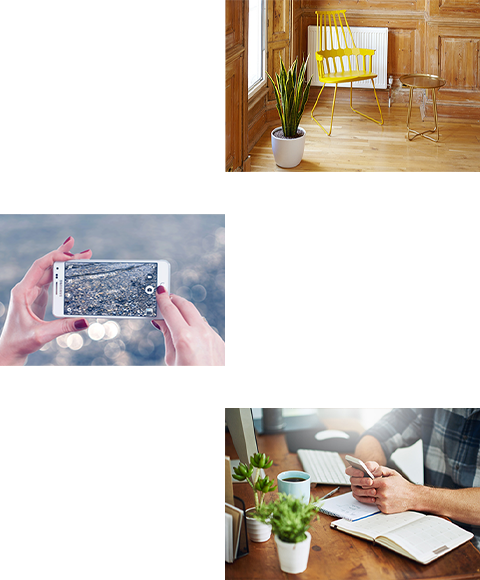
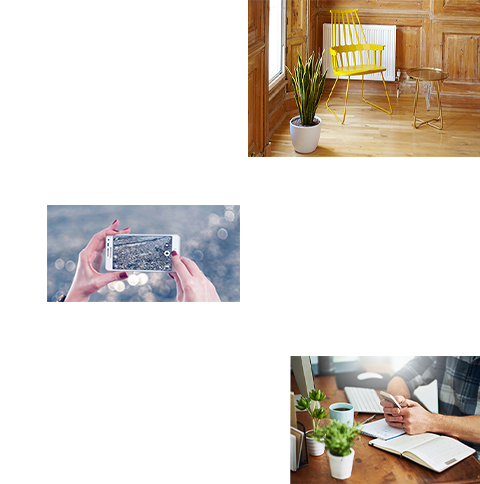
Clents add

diff --git a/index.html b/index.html
@@ -92,8 +92,8 @@
     <div class="grid-blocks bdg-danger py-100 pb-0">
         <div class="container px-5 px-md-3">
             <div class="heading d-inline-block">
-                <h2> <span class="bg-black text-white">Work <i class="fa fa-angle-double-right"></i></span><span
-                        class="d-block">What We Do <i class="fa fa-star"></i></span></h2>
+                <h2> <span class="bg-black text-white pr-4">Work >></span><span
+                        class="d-block">What We Do *</span></h2>
             </div>
 
             <div class="masonry-grid row ">
@@ -211,9 +211,9 @@
     <div class="divider-section">
         <div class="container px-5 px-md-3">
             <div class="row">
-                <div class="col-lg-11 mx-auto">
+                <div class="col-lg-10 mx-auto">
                     <div class="row py-100">
-                        <div class="col-md-3 col-md-offset-1">
+                        <div class="col-md-2 mt-5">
                             <div class="video mb-4">
                                 <div class="grid-img">
                                     <a href=""><img class="img-fluid w-100" src="assets/img/img5.jpg"
@@ -240,12 +240,13 @@
                             </div>
                             <!-- End Blog Grid Modern Blocks -->
                         </div>
-                        <div class="col-md-5 py-5 py-md-0">
+                        <div class="col-md-6 py-5 py-md-0">
+                            
                             <div class="heading">
                                 <h2> <span class="bg-black text-white">Development</span><span class="d-block">&
                                         Production</span></h2>
                             </div>
-                            <div class="g-mt-100 text-right ff-ssp">
+                            <div class="g-mt-100 text-right mr-5 ff-ssp">
                                 <p>Lorem ipsum dolor sit amet consectetur adipisicing eeritatis aliquam nam fugit quos
                                     sunt provident. Dolorum, possimus!</p>
                                 <p>Rsum dolor sit amet consectetur adipisicing elit. Provident, necessitatibus!</p>
@@ -253,6 +254,7 @@
                             </div>
                         </div>
                         <div class="col-md-4">
+                            <div class="line-top"></div>
                             <img class="img-fluid" src="assets/img/divider-img.png" alt="">
                         </div>
                     </div>
@@ -385,8 +387,8 @@
     <div class="clients">
         <div class="container  px-5 px-md-3">
             <div class="heading d-inline-block">
-                <h2> <span class="bg-black text-white">Clients <i class="fa fa-angle-double-right"></i></span><span
-                        class="d-block">Past & Present <i class="fa fa-star"></i></span></h2>
+                <h2> <span class="bg-black text-white pr-4">Clients >></span><span
+                        class="d-block">Past & Present *</span></h2>
             </div>
             <div class="row">
                 <div class="col-lg-11 mx-auto">

diff --git a/style.css b/style.css
@@ -255,16 +255,20 @@ body.mobile-nav-active .menu-trigger span {
 }
 .heading h2 {
     text-transform: uppercase;
-    font-size: 18px;
+    font-size: 16px;
     font-family: 'Niramit', sans-serif;
     font-weight: 600;
-    line-height: 30px;
+    line-height: 25px;
     float: right;
 }
 
 .heading .bg-black{
     background-color: #000;
     padding: 0 8px;
+}
+
+.heading span.d-block {
+    padding-left: 8px;
 }
 
 .g-mt-100{
@@ -323,4 +327,16 @@ hr.divider {
     .clients-img {
         padding: 10px;
     }
+}
+.divider-section{
+    position: relative;
+}
+.line-top {
+    border-top: 4px solid;
+    position: absolute;
+    left: -33px;
+    top: -46px;
+    width: 235px;
+    height: 4px;
+    background: #000;
 }
